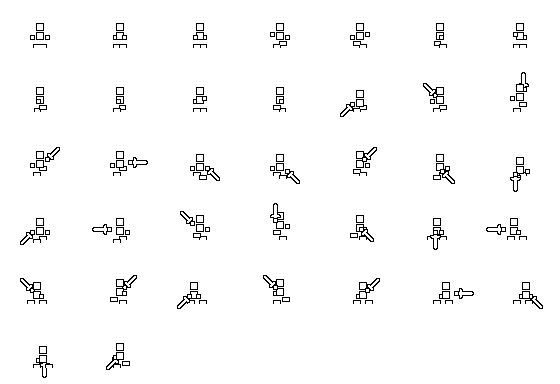
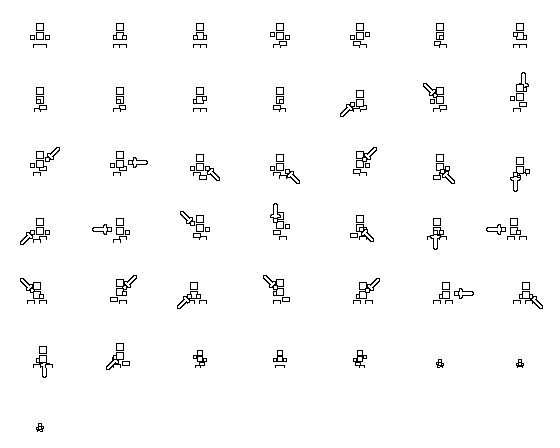
落下の調整

diff --git a/src/game/EnemyField.c b/src/game/EnemyField.c
@@ -22,7 +22,7 @@ static void EnemyFieldActorStep(struct EnemyActor *actor);
 static int EnemyFieldGetWalkableDirection(struct EnemyActor *actor);
 static int EnemyFieldGetWalkableRandomDirection(struct EnemyActor *actor);
 static bool EnemyFieldMoveToDestination(struct EnemyActor *actor);
-static void EnemyFieldBlink(struct EnemyActor *actor);
+static bool EnemyFieldBlink(struct EnemyActor *actor);
 static void EnemyFieldCalcRect(struct EnemyActor *actor);
 
 // 内部変数
@@ -164,10 +164,11 @@ void EnemyFieldActorIdle(struct EnemyActor *actor)
     if (GameIsPlay()) {
 
         // 点滅
-        EnemyFieldBlink(actor);
+        if (!EnemyFieldBlink(actor)) {
 
-        // アニメーションの更新
-        AsepriteUpdateSpriteAnimation(&actor->animation);
+            // アニメーションの更新
+            AsepriteUpdateSpriteAnimation(&actor->animation);
+        }
     }
 
     // 矩形の計算
@@ -217,74 +218,75 @@ void EnemyFieldActorWalk(struct EnemyActor *actor)
     // プレイ中
     if (GameIsPlay()) {
 
-        // 移動の完了
-        if (actor->position.x == actor->destination.x && actor->position.y == actor->destination.y) {
+        // 点滅
+        if (!EnemyFieldBlink(actor)) {
 
-            // 位置の保存
-            actor->origin = actor->position;
+            // 移動の完了
+            if (actor->position.x == actor->destination.x && actor->position.y == actor->destination.y) {
 
-            // 移動の設定
-            int reverse = actor->direction ^ 0x01;
-            int way = -1;
-            int d = EnemyFieldGetWalkableDirection(actor);
-            if (d == (1 << kDirectionUp)) {
-                way = kDirectionUp;
-            } else if (d == (1 << kDirectionDown)) {
-                way = kDirectionDown;
-            } else if (d == (1 << kDirectionLeft)) {
-                way = kDirectionLeft;
-            } else if (d == (1 << kDirectionRight)) {
-                way = kDirectionRight;
-            } else {
-                int c = d & ~(1 << reverse);
-                if (c == (1 << kDirectionUp)) {
+                // 位置の保存
+                actor->origin = actor->position;
+
+                // 移動の設定
+                int reverse = actor->direction ^ 0x01;
+                int way = -1;
+                int d = EnemyFieldGetWalkableDirection(actor);
+                if (d == (1 << kDirectionUp)) {
                     way = kDirectionUp;
-                } else if (c == (1 << kDirectionDown)) {
+                } else if (d == (1 << kDirectionDown)) {
                     way = kDirectionDown;
-                } else if (c == (1 << kDirectionLeft)) {
+                } else if (d == (1 << kDirectionLeft)) {
                     way = kDirectionLeft;
-                } else if (c == (1 << kDirectionRight)) {
+                } else if (d == (1 << kDirectionRight)) {
                     way = kDirectionRight;
                 } else {
-                    int t = IocsGetRandomNumber(NULL) % 4;
-                    while ((c & (1 << t)) == 0) {
-                        ++t;
-                        if (t >= 4) {
-                            t = 0;
+                    int c = d & ~(1 << reverse);
+                    if (c == (1 << kDirectionUp)) {
+                        way = kDirectionUp;
+                    } else if (c == (1 << kDirectionDown)) {
+                        way = kDirectionDown;
+                    } else if (c == (1 << kDirectionLeft)) {
+                        way = kDirectionLeft;
+                    } else if (c == (1 << kDirectionRight)) {
+                        way = kDirectionRight;
+                    } else {
+                        int t = IocsGetRandomNumber(NULL) % 4;
+                        while ((c & (1 << t)) == 0) {
+                            ++t;
+                            if (t >= 4) {
+                                t = 0;
+                            }
+                        }
+                        way = t;
+                    }
+                }
+                actor->direction = way;
+                if (FieldWalk(actor->position.x, actor->position.y, actor->direction, false, false, &actor->destination)) {
+                    if (actor->position.x != actor->destination.x) {
+                        FieldAdjustMovePosition(&actor->position, &actor->destination);
+                    }
+                    {
+                        bool face = false;
+                        if (actor->direction == kDirectionLeft && actor->face != kEnemyFaceLeft) {
+                            actor->face = kEnemyFaceLeft;
+                            face = true;
+                        } else if (actor->direction == kDirectionRight && actor->face != kEnemyFaceRight) {
+                            actor->face = kEnemyFaceRight;
+                            face = true;
+                        }
+                        if (face) {
+                            AsepriteStartSpriteAnimation(&actor->animation, actor->data->sprite, enemyFieldAnimationNames_Walk[actor->face], true);
                         }
                     }
-                    way = t;
                 }
             }
-            actor->direction = way;
-            if (FieldWalk(actor->position.x, actor->position.y, actor->direction, false, false, &actor->destination)) {
-                if (actor->position.x != actor->destination.x) {
-                    FieldAdjustMovePosition(&actor->position, &actor->destination);
-                }
-                {
-                    bool face = false;
-                    if (actor->direction == kDirectionLeft && actor->face != kEnemyFaceLeft) {
-                        actor->face = kEnemyFaceLeft;
-                        face = true;
-                    } else if (actor->direction == kDirectionRight && actor->face != kEnemyFaceRight) {
-                        actor->face = kEnemyFaceRight;
-                        face = true;
-                    }
-                    if (face) {
-                        AsepriteStartSpriteAnimation(&actor->animation, actor->data->sprite, enemyFieldAnimationNames_Walk[actor->face], true);
-                    }
-                }
-            }
+
+            // 移動
+            EnemyFieldMoveToDestination(actor);
+
+            // アニメーションの更新
+            AsepriteUpdateSpriteAnimation(&actor->animation);
         }
-
-        // 移動
-        EnemyFieldMoveToDestination(actor);
-
-        // 点滅
-        EnemyFieldBlink(actor);
-
-        // アニメーションの更新
-        AsepriteUpdateSpriteAnimation(&actor->animation);
     }
 
     // 矩形の計算
@@ -328,10 +330,11 @@ void EnemyFieldActorFree(struct EnemyActor *actor)
     if (GameIsPlay()) {
 
         // 点滅
-        EnemyFieldBlink(actor);
+        if (!EnemyFieldBlink(actor)) {
 
-        // アニメーションの更新
-        AsepriteUpdateSpriteAnimation(&actor->animation);
+            // アニメーションの更新
+            AsepriteUpdateSpriteAnimation(&actor->animation);
+        }
     }
 
     // 矩形の計算
@@ -375,10 +378,11 @@ void EnemyFieldActorStep(struct EnemyActor *actor)
     if (GameIsPlay()) {
 
         // 点滅
-        EnemyFieldBlink(actor);
+        if (!EnemyFieldBlink(actor)) {
 
-        // アニメーションの更新
-        AsepriteUpdateSpriteAnimation(&actor->animation);
+            // アニメーションの更新
+            AsepriteUpdateSpriteAnimation(&actor->animation);
+        }
     }
 
     // 矩形の計算
@@ -483,11 +487,12 @@ static bool EnemyFieldMoveToDestination(struct EnemyActor *actor)
 
 // 点滅する
 //
-static void EnemyFieldBlink(struct EnemyActor *actor)
+static bool EnemyFieldBlink(struct EnemyActor *actor)
 {
     if (actor->blink > 0) {
         --actor->blink;
     }
+    return actor->blink > 0 ? true : false;
 }
 
 // 矩形を計算する

diff --git a/src/game/PlayerField.c b/src/game/PlayerField.c
@@ -224,8 +224,13 @@ static void PlayerFieldActorPlay(struct PlayerActor *actor)
             }
             if (actor->position.y == actor->destination.y) {
                 if (FieldIsFall(actor->destination.x, actor->destination.y)) {
-                    if (FieldWalk(actor->destination.x, actor->destination.y, kDirectionDown, land, true, &actor->destination)) {
-                        ;
+                    if (
+                        actor->position.x == actor->destination.x || 
+                        FieldIsFall(actor->position.x, actor->position.y)
+                    ) {
+                        if (FieldWalk(actor->destination.x, actor->destination.y, kDirectionDown, land, true, &actor->destination)) {
+                            ;
+                        }
                     }
                 }
             }

diff --git a/src/game/Game.c b/src/game/Game.c
@@ -321,7 +321,6 @@ static void GameLoadBattle(struct Game *game)
             game->battleRoute = FieldGetBattleRoute(game->battlePosition.x, game->battlePosition.y);
             game->battleDirection = -1;
             {
-                playdate->system->logToConsole("encount = %d, %d - %d, %d", pp.x, pp.y, ep.x, ep.y);
                 int dx = pp.x - ep.x;
                 int dy = pp.y - ep.y;
                 if (abs(dy) > abs(dx)) {

diff --git a/src/game/Battle.c b/src/game/Battle.c
@@ -427,7 +427,7 @@ bool BattleIsInsideX(int x)
 }
 bool BattleIsInsideY(int y)
 {
-    return y >= 0 || y < kBattleSizeY * kBattleSizePixel ? true : false;
+    return y >= 0 && y < kBattleSizeY * kBattleSizePixel ? true : false;
 }
 
 // クリップを設定する
